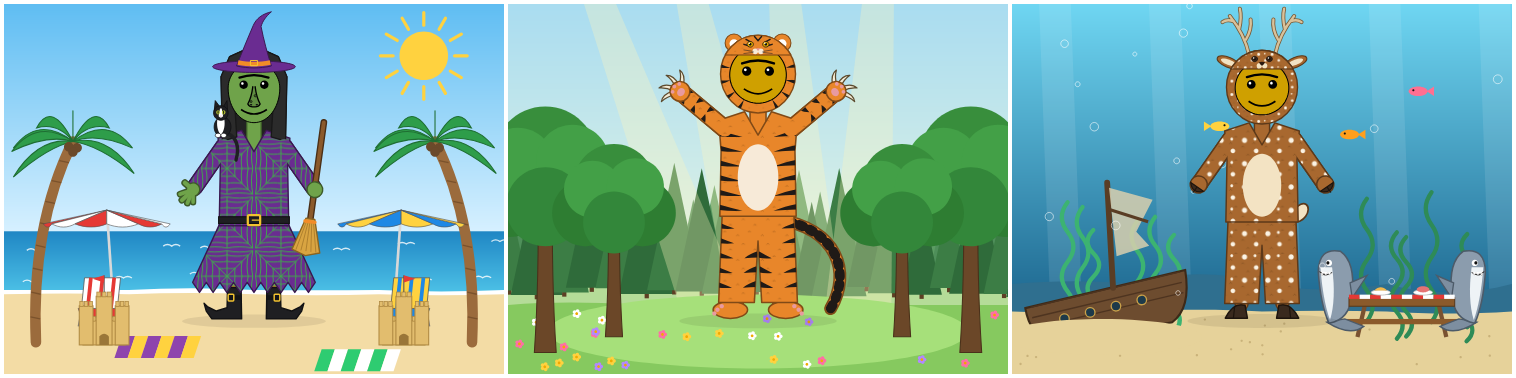
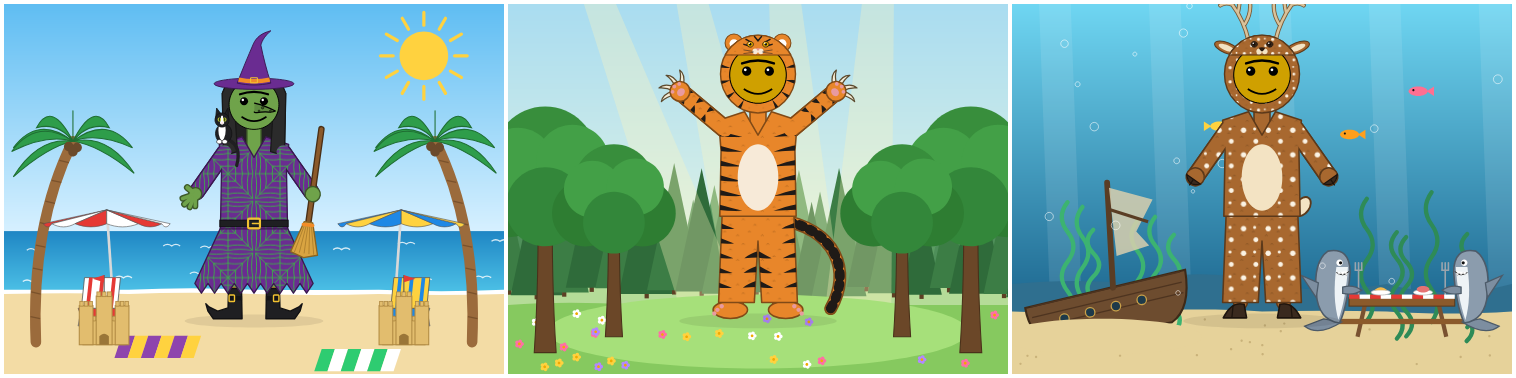
Hazel performance analysis, issue 003: the witch's woods and the cemetery

diff --git a/hazel/performance-analysis/003/index.html b/hazel/performance-analysis/003/index.html
@@ -61,7 +61,7 @@
 <h1>A day of requests from M and N</h1>
 <p class="sub">Two players asked for features in Messed Up Dress Up today: M (my daughter) and N (my son). As in <a href="../002/">issue 002</a>, each one went first into the game, a single HTML/JS file they play with, and only then toward the Hazel slides. This issue is what they asked for, what it looks like, which parts reached Hazel today, and what those parts cost there.</p>
 
-<figure><img src="img/hero.png" alt="Three scenes: a green witch with a hooked nose, a tuxedo cat on her shoulder and a broom, on a beach with palms and sand castles; a tiger costume with wrapped stripes in a forest meadow under sunshafts; a deer costume under water beside a shipwreck and two sharks at a picnic table.">
+<figure><img src="img/hero.png" alt="Three scenes: a green witch with a hooked nose, a tuxedo cat on her shoulder and a broom, on a beach with palms and sand castles; a tiger costume with wrapped stripes in a forest meadow under sunshafts; a deer costume under water beside a shipwreck and two sharks at a picnic table, forks in their fins.">
 <figcaption>Today's game: a witch at the beach, a tiger in the forest, a deer under the sea.</figcaption></figure>
 
 <div class="kpis">
@@ -84,8 +84,27 @@
 <figure><img src="img/n-arms600.png" alt="A figure with arms 600 long, a ball of 100 claws on each hand; then the same with the claws at 900%."><figcaption>Arms at 600, 100 claws each side; then the claws at 900%.</figcaption></figure>
 
 <h3>Backgrounds</h3>
-<p>Four to start: none, a forest with a meadow and sunshafts, under the sea with a shipwreck and sharks at a picnic table, and a beach with umbrellas, chairs, blankets, palms, sand castles, the sun, and the ocean next to the sand. A scene is drawn behind everything, its ground at the figure's feet. With a background on, the picture turns landscape, with room at the sides for the scenery and in front of the feet for flowers, castles and blankets.</p>
-<figure><img src="img/n-backgrounds.png" alt="The default figure in the forest, under water, and at the beach."><figcaption>Forest, underwater, beach.</figcaption></figure>
+<p>Four to start: none, a forest with a meadow and sunshafts, under the sea with a shipwreck and sharks at a picnic table (facing it, forks in their fins), and a beach with umbrellas, chairs, blankets, palms, sand castles, the sun, and the ocean next to the sand. A scene is a stage of its own, wide, with room at the sides for the scenery and in front of the feet for flowers, castles and blankets. The figure stands on its ground at a size and place of its own: drag it, or use the size slider and a small picture of the stage to tap.</p>
+<figure><img src="img/n-backgrounds.png" alt="The default figure in the forest, under water with two sharks facing their picnic table, forks in their fins, and at the beach."><figcaption>Forest, underwater, beach.</figcaption></figure>
+<p>Two more came later in the day:</p>
+<ul>
+  <li><b>A witch's woods</b> at dusk, with a moon and bats.
+    <ul>
+      <li>Far off stands a log hut with a red door, up on giant red-orange chicken legs with white feathers and clawed toes.</li>
+      <li>A palisade of stakes runs across the middle, with skulls on its posts.</li>
+      <li>Her cabin has smoke rising from its chimney, and her cauldron bubbles green over a fire, a red-eyed skull on the pot and a green and cyan plume twisting up.</li>
+      <li>Skeletons reach up out of the ground.</li>
+      <li>Each dead tree grows from its own seed, leaning, drooping or snapped off, and one giant sprawls over the left.</li>
+    </ul></li>
+  <li><b>A cemetery</b>, peaceful and green rather than spooky.
+    <ul>
+      <li>Clouds, hills, dark yews and round trees, and a weeping willow by a brook that winds down to the front.</li>
+      <li>Celtic crosses with rings, bosses and knotwork, and rounded headstones.</li>
+      <li>One dark granite cross with a stag on a shield on its pedestal.</li>
+      <li>Bushes, and flowers everywhere.</li>
+    </ul></li>
+</ul>
+<figure><img src="img/n-backgrounds-2.png" alt="The witch with her cat and broom in the witch's woods: a hut on giant chicken legs behind a skull-topped palisade, her cabin, a bubbling cauldron, skeletons in the ground, a giant dead tree, a moon and bats. Then the default figure in a peaceful cemetery: Celtic crosses, a dark stag stone, yews, a willow by a brook, flowers and clouds."><figcaption>The witch's woods; the cemetery.</figcaption></figure>
 
 <h2 id="m">From M</h2>
 
@@ -150,7 +169,12 @@
 
 <h2 id="next">What next</h2>
 <ul>
-  <li><b>A heads-up display in full screen.</b> The figure gets its own size and place in a scene, dragged along the ground. A 📌 by any slider pins it to a see-through strip along the bottom, for playing with the figure against the background.</li>
+  <li><b>A heads-up display in full screen</b> (done the same evening).
+    <ul>
+      <li>A strip below the picture starts with just the figure's size and place in the scene.</li>
+      <li>A 📌 by any slider in the editor adds it there, saved with the friend.</li>
+      <li>A 👁 on each slider in the strip folds it away to its name.</li>
+    </ul></li>
   <li><b>The rest of today's features into the slides</b>, the costumes and backgrounds first.</li>
   <li><b>A profile of the per-finger cost</b> on the Hands slide.</li>
 </ul>
